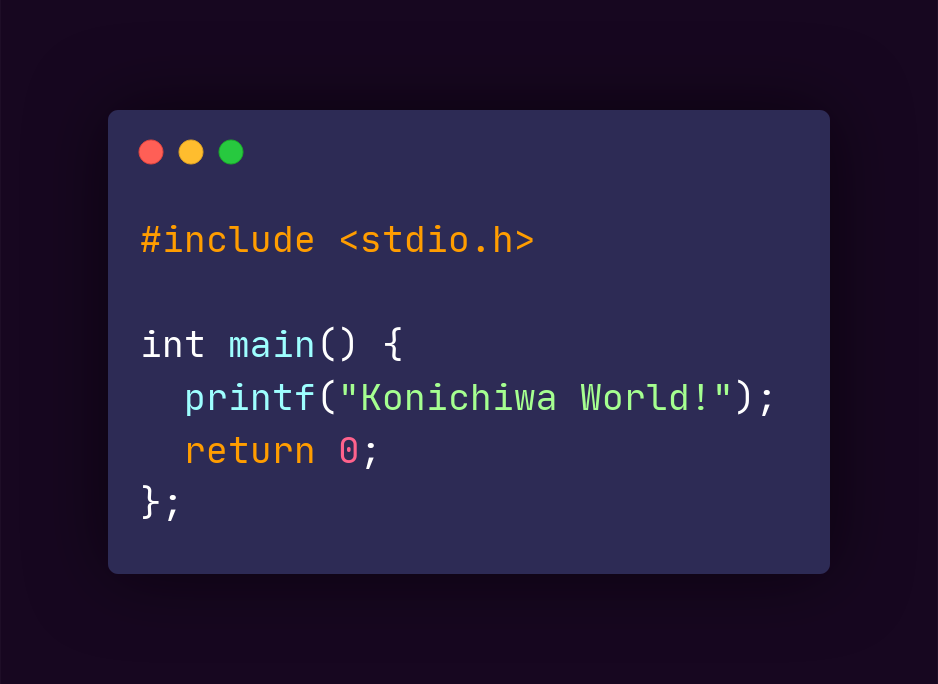
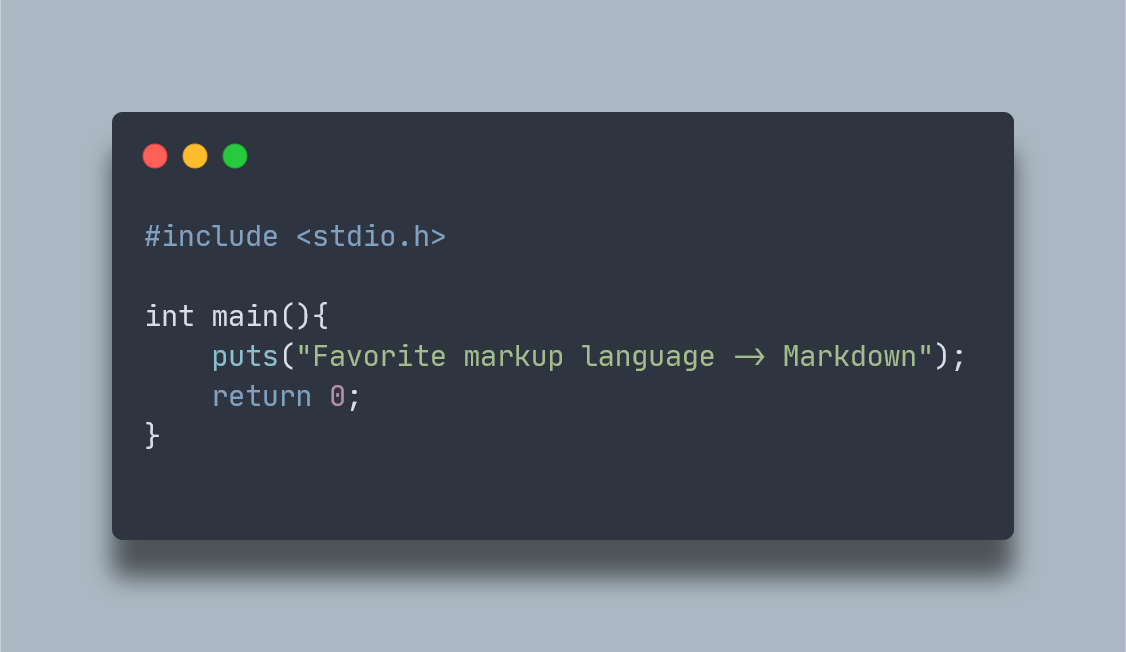
Update code image and some more additions to readme

diff --git a/readme.md b/readme.md
@@ -2,7 +2,7 @@
 <p align='center'><img align='center' width='360px' src='code.png'></img></p>
 <hr/>
 
-**Languages I know:** Lua, Python, Brainf**k, LOLCODE, Bash (basics)
+**Languages I know:** Lua, Python, Brainf\*\*k, LOLCODE, Bash (basics)
 
 **Language Im learning:** C
 
@@ -40,19 +40,21 @@
 
 ---
 <details>
-  <summary> Hobbies 🎮 </summary>
+  <summary>Code stuff I like 🖋 </summary>
+  <br/>
+  <p align='center'> **Text Editors** -> Neovim, Atom, led</p>
+  <p align='center'> **Themes** -> Tokyo Night Storm, Nord, One Dark, Palenight</p>
+  <p align='center'> **Fonts** -> JetBrains Mono, Cascadia Code, Fantasque Sans Mono, Fira Code, Kungfont </p>
+</details>
+
+<details>
+  <summary>Hobbies 🎮 </summary>
   <br/>
   <p align='center'> -> Programming, watching anime & sitcoms, casual gaming and occasionally reading some books </p>
 </details>
 
 <details>
-  <summary> Fonts I like 🖋 </summary>
-  <br/>
-  <p align='center'> -> JetBrains Mono, Fira Code, Fantasque Sans Mono, Cascadia Code, Kungfont </p>
-</details>
-
-<details>
-  <summary> Profile Stats </summary>
+  <summary>Profile Stats </summary>
   <br/>
   <img src="https://github-readme-stats.vercel.app/api/?username=MetaStag&layout=compact&show_icons=true&include_all_commits=true&hide_border=false&theme=cobalt" />  
 </details>
